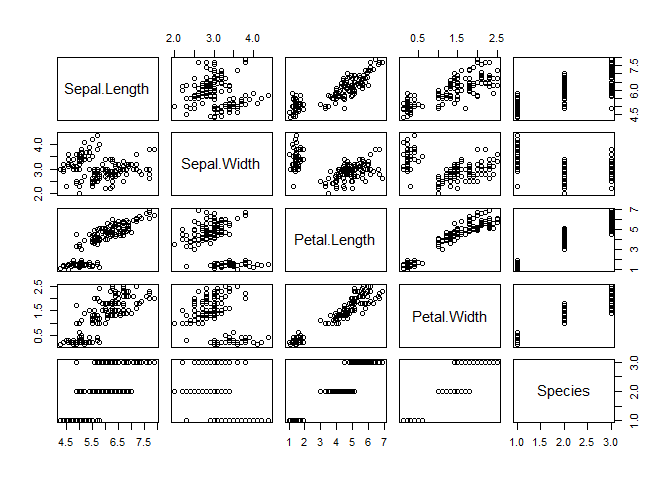
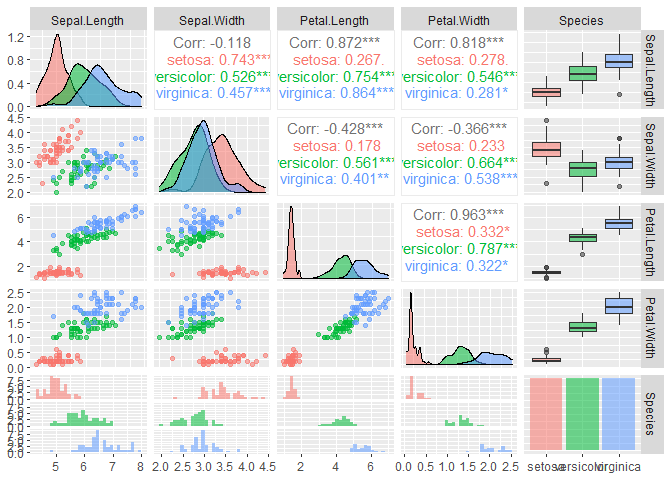
11:34_6_30_2022

diff --git a/_posts/2022-06-30-third-blog-post.md b/_posts/2022-06-30-third-blog-post.md
@@ -2,7 +2,14 @@ Cool Stuff in R
 ================
 
 ``` r
-plot(iris) #prints a plot about iris dataset (50 flowers from 3 different species)
+library(GGally)
+ggpairs(iris, aes(colour = Species, alpha = 0.4))
 ```
+
+    ##  plot: [1,1] [===>----------------------------------------------------------------------------------------]  4% est: 0s  plot: [1,2] [======>-------------------------------------------------------------------------------------]  8% est: 1s  plot: [1,3] [==========>---------------------------------------------------------------------------------] 12% est: 1s  plot: [1,4] [==============>-----------------------------------------------------------------------------] 16% est: 1s  plot: [1,5] [=================>--------------------------------------------------------------------------] 20% est: 1s  plot: [2,1] [=====================>----------------------------------------------------------------------] 24% est: 1s  plot: [2,2] [=========================>------------------------------------------------------------------] 28% est: 1s  plot: [2,3] [============================>---------------------------------------------------------------] 32% est: 1s  plot: [2,4] [================================>-----------------------------------------------------------] 36% est: 1s  plot: [2,5] [====================================>-------------------------------------------------------] 40% est: 1s  plot: [3,1] [=======================================>----------------------------------------------------] 44% est: 1s  plot: [3,2] [===========================================>------------------------------------------------] 48% est: 1s  plot: [3,3] [===============================================>--------------------------------------------] 52% est: 1s  plot: [3,4] [===================================================>----------------------------------------] 56% est: 1s  plot: [3,5] [======================================================>-------------------------------------] 60% est: 1s  plot: [4,1] [==========================================================>---------------------------------] 64% est: 1s  plot: [4,2] [==============================================================>-----------------------------] 68% est: 0s  plot: [4,3] [=================================================================>--------------------------] 72% est: 0s  plot: [4,4] [=====================================================================>----------------------] 76% est: 0s  plot: [4,5] [=========================================================================>------------------] 80% est: 0s  plot: [5,1] [============================================================================>---------------] 84% est: 0s `stat_bin()` using `bins = 30`. Pick better value with `binwidth`.
+    ##  plot: [5,2] [================================================================================>-----------] 88% est: 0s `stat_bin()` using `bins = 30`. Pick better value with `binwidth`.
+    ##  plot: [5,3] [====================================================================================>-------] 92% est: 0s `stat_bin()` using `bins = 30`. Pick better value with `binwidth`.
+    ##  plot: [5,4] [=======================================================================================>----] 96% est: 0s `stat_bin()` using `bins = 30`. Pick better value with `binwidth`.
+    ##  plot: [5,5] [============================================================================================]100% est: 0s                                                                                                                         
 
 ![](../images/example-1.png)<!-- -->
